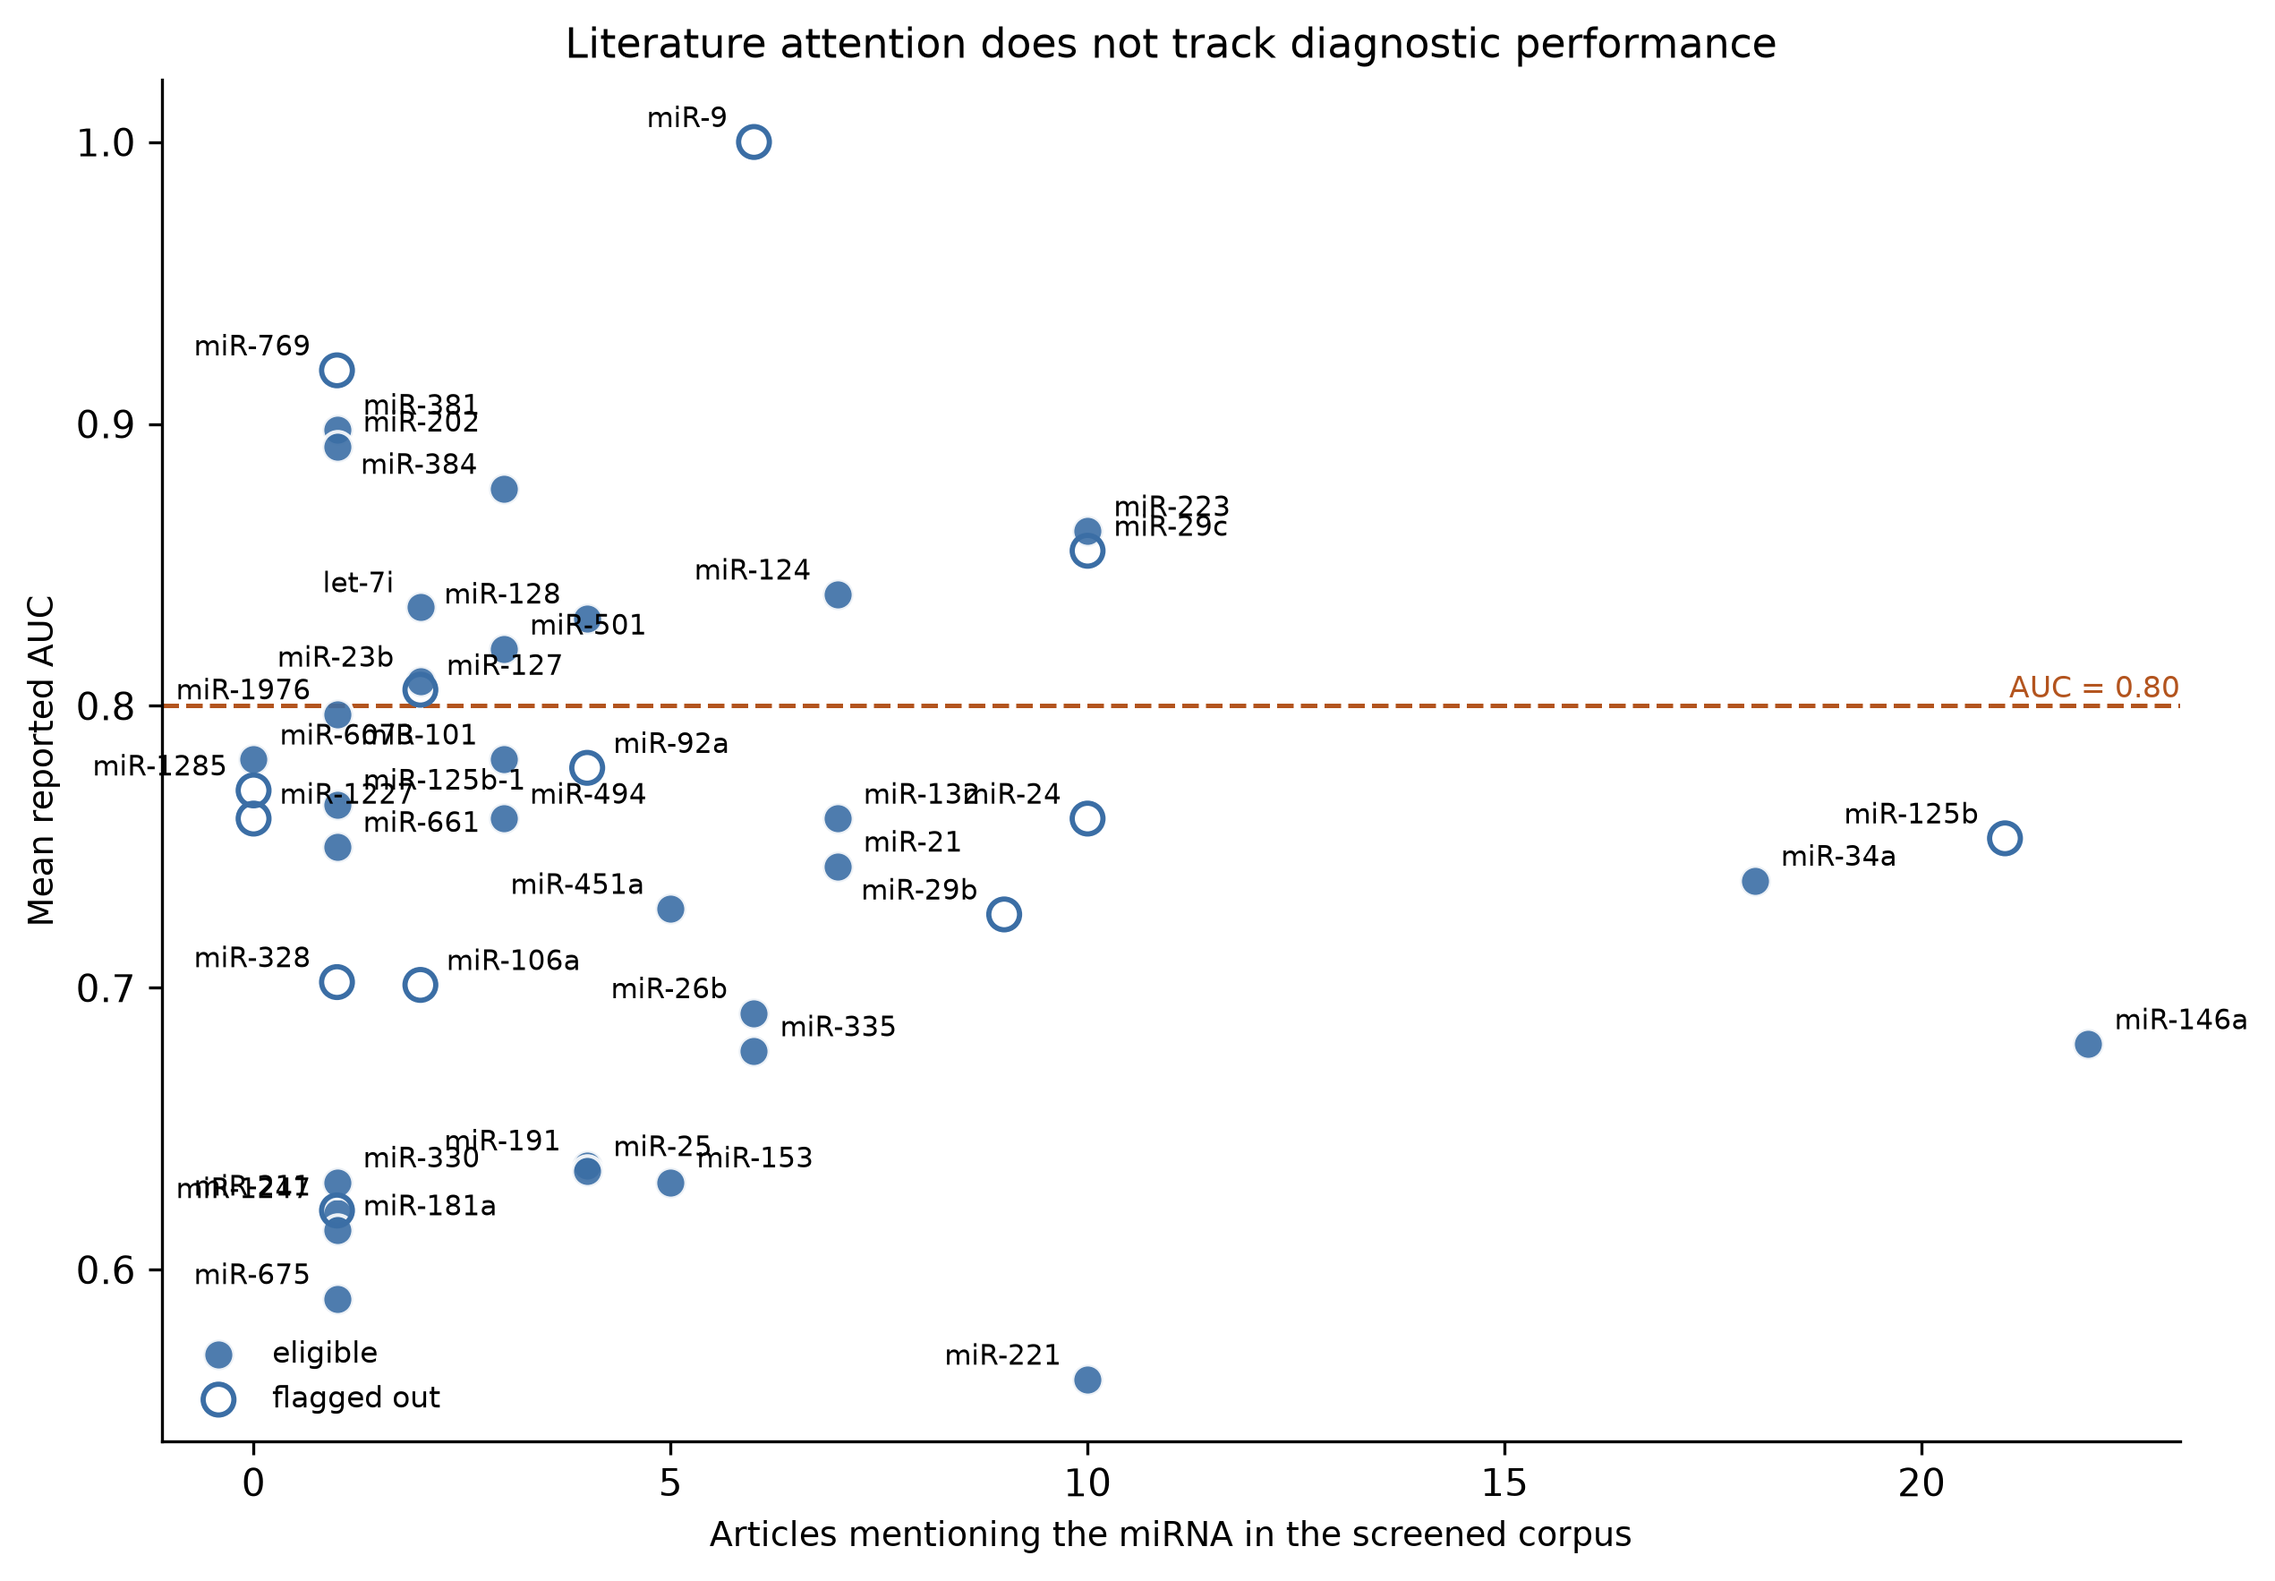
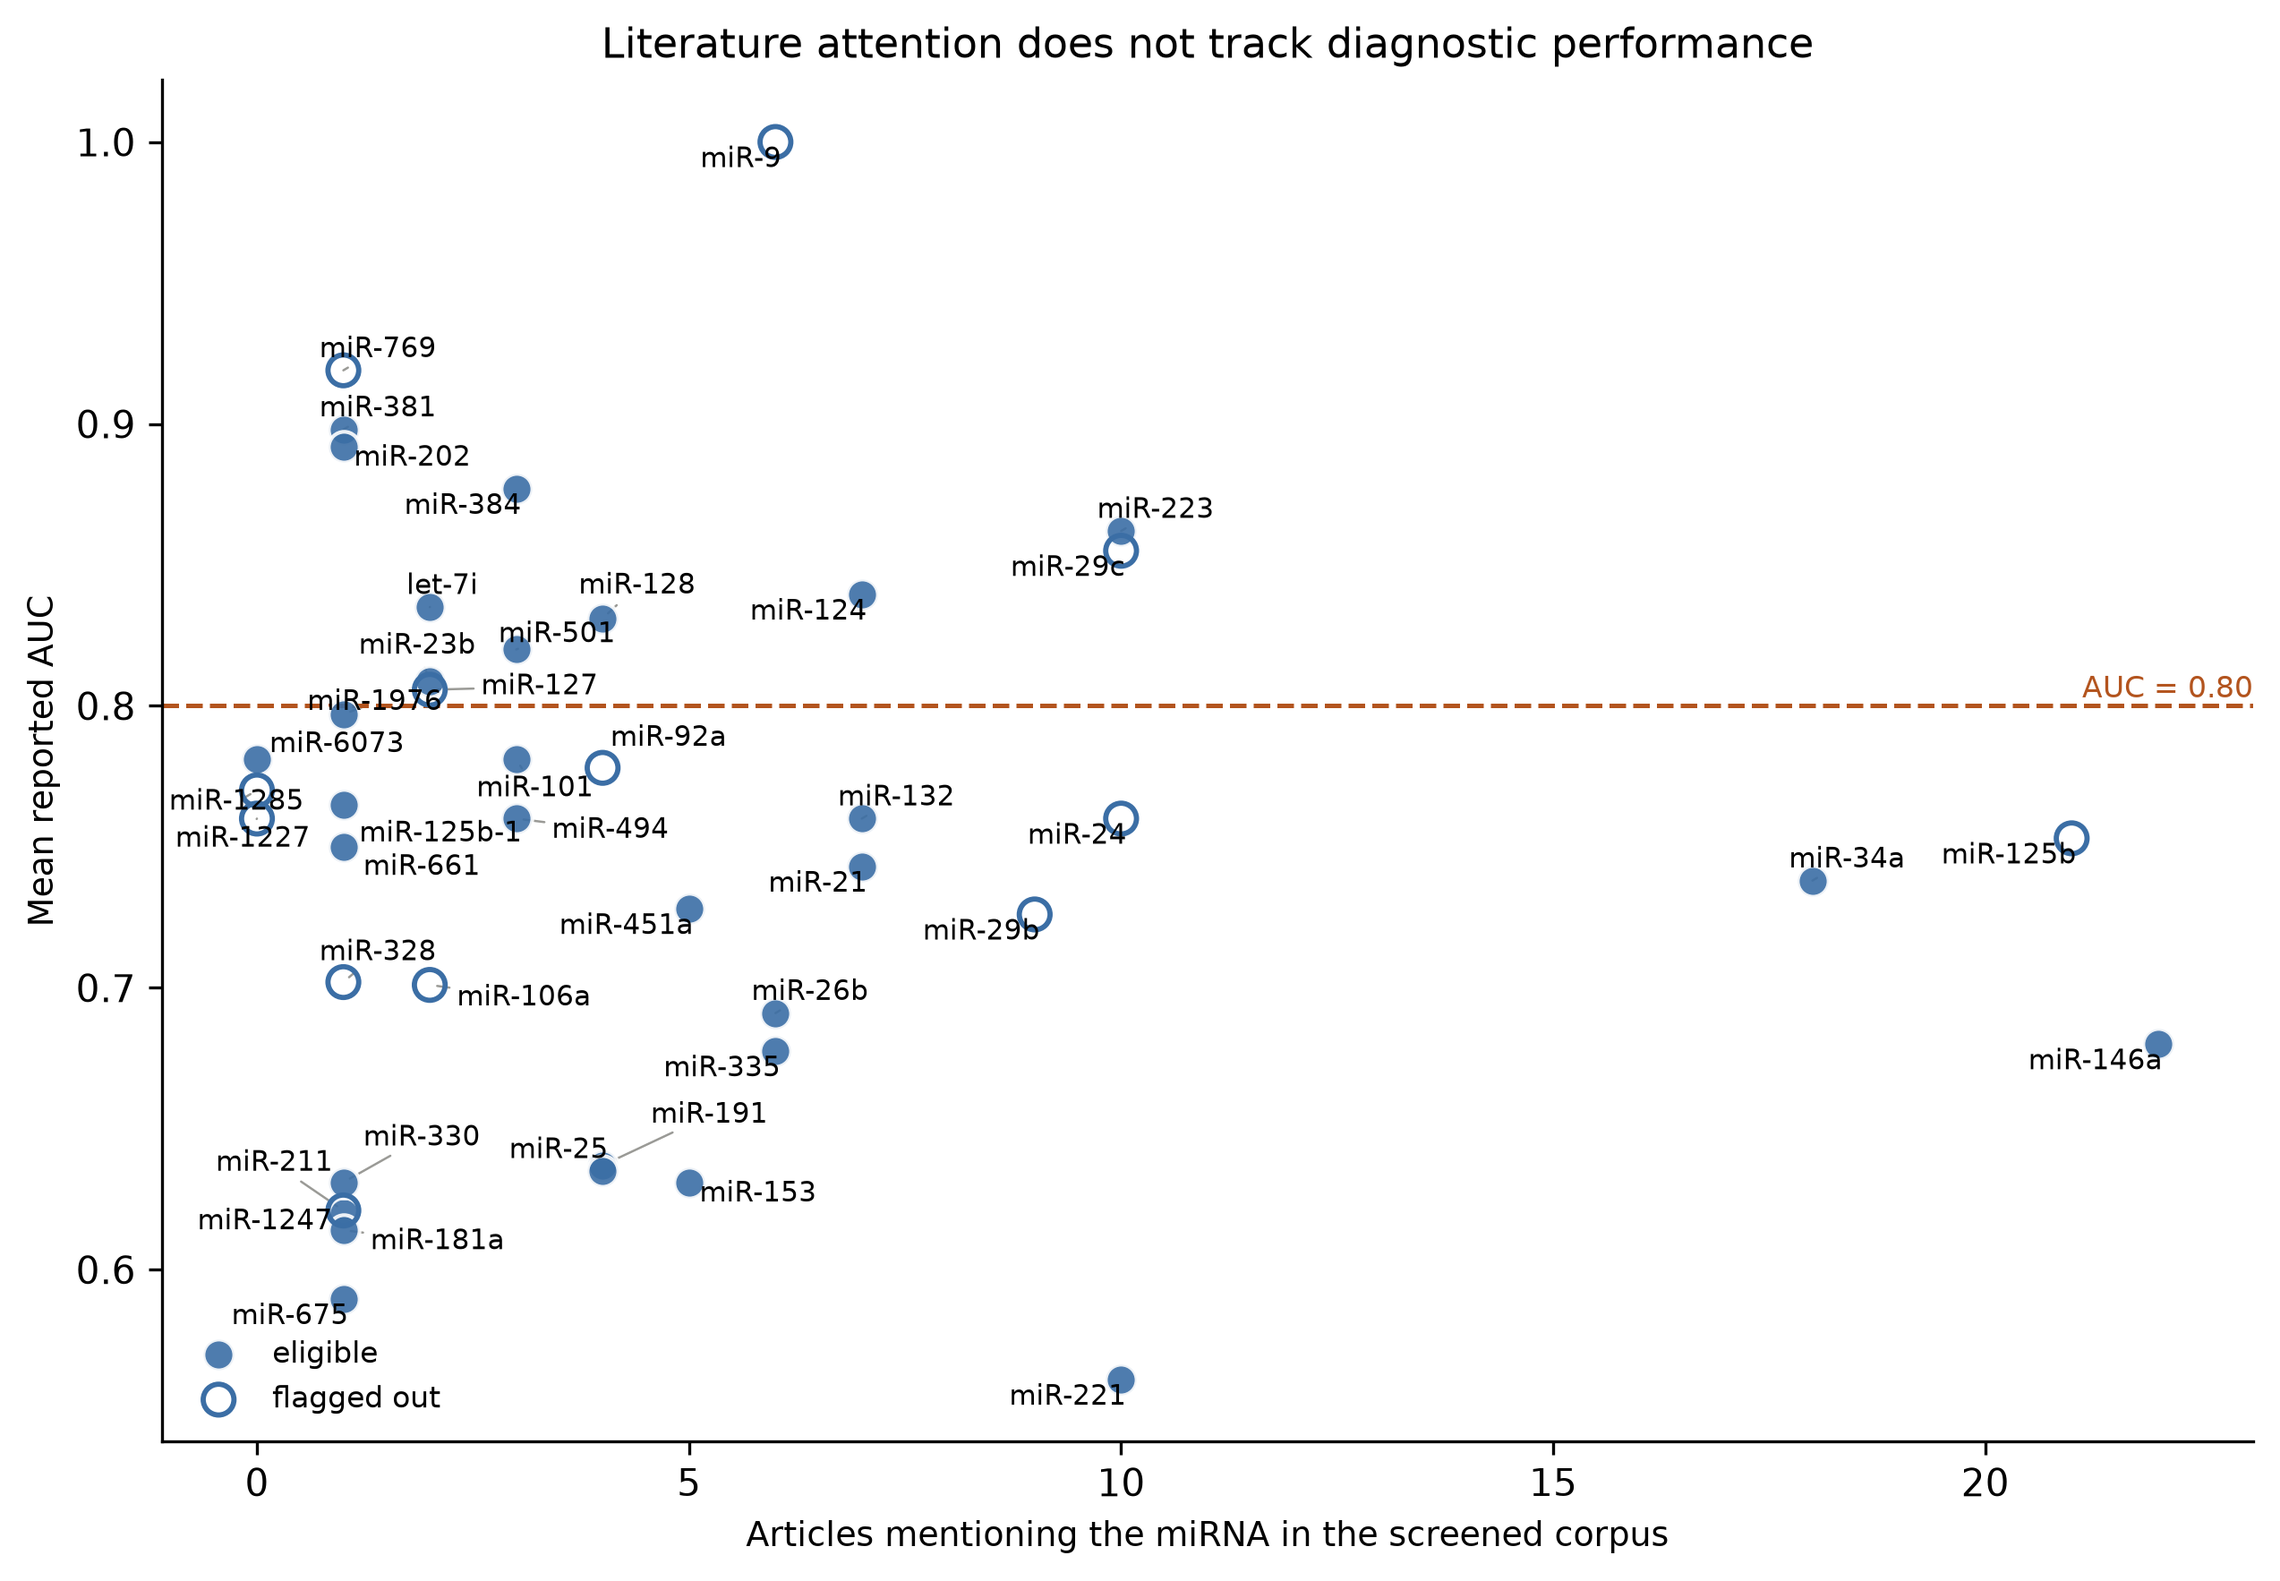
Fix overlapping labels in the attention-vs-accuracy scatter
The manuscript review found results/figures/citation_frequency_vs_auc
illegible in its densest region: a fixed left/right alternation rule
left several miRNA labels stacked directly on top of each other where
many markers share zero or one mention. Replaced it with adjust_text
(Hunter, 2007-style label repulsion), which spreads every label clear
of the points and of each other and draws a thin leader line back to
the point when a label had to move far. The underlying data and
correlation coefficients (rho = -0.043 and -0.113) are unchanged;
scripts/08_verify_consistency.py still passes at 1656 checks. Adds
adjustText as a dependency, recorded in requirements.txt.

diff --git a/scripts/06_citation_vs_performance.py b/scripts/06_citation_vs_performance.py
@@ -34,6 +34,7 @@ from scipy import stats
 import matplotlib
 matplotlib.use("Agg")
 import matplotlib.pyplot as plt
+from adjustText import adjust_text
 
 COUNTS = "data/raw/systematic_review_2026/mirna_mention_counts.csv"
 EXTRACTION = "data/extracted/diagnostic_accuracy_extraction.csv"
@@ -195,13 +196,23 @@ def main():
         ax.scatter(x[~is_elig], y[~is_elig], s=68, facecolor="none",
                    edgecolor="#3B6EA5", linewidth=1.4, zorder=3,
                    label=t(lang, "flagged out", "sinalizada fora"))
-        for i, (_, r_) in enumerate(merged.iterrows()):
-            # EN/PT: alternate label side to reduce overlap in the dense region
-            dx, ha = (7, "left") if i % 2 == 0 else (-7, "right")
-            ax.annotate(r_["family"],
-                        (r_["n_articles_mentioning"], r_["mean_auc"]),
-                        textcoords="offset points", xytext=(dx, 4),
-                        ha=ha, fontsize=7.4)
+        # EN | Label positions are relaxed by adjust_text (Hunter, 2007 style repulsion),
+        #      not left to a fixed left/right alternation: the corpus has a dense cluster
+        #      of miRNAs mentioned zero or once, and a fixed rule left several of those
+        #      labels stacked on top of each other. adjust_text moves labels away from
+        #      each other and from the points themselves, and draws a thin leader line
+        #      wherever a label had to move far from its point.
+        # PT | As posicoes dos rotulos sao relaxadas pelo adjust_text (repulsao ao estilo
+        #      Hunter, 2007), nao por uma alternancia fixa esquerda/direita: o corpus tem
+        #      um aglomerado denso de miRNAs mencionados zero ou uma vez, e uma regra fixa
+        #      deixava varios desses rotulos empilhados um sobre o outro. O adjust_text
+        #      afasta os rotulos entre si e dos proprios pontos, e desenha uma linha fina
+        #      sempre que um rotulo precisou se afastar muito do seu ponto.
+        texts = [ax.text(r_["n_articles_mentioning"], r_["mean_auc"], r_["family"],
+                          fontsize=7.4, ha="center", va="center")
+                 for _, r_ in merged.iterrows()]
+        adjust_text(texts, x=x, y=y, ax=ax,
+                    arrowprops=dict(arrowstyle="-", color="#9a9a96", lw=0.6))
         ax.axhline(0.80, color="#B3541E", ls="--", lw=1.2, zorder=2)
         ax.text(ax.get_xlim()[1], 0.803, "AUC = 0.80", ha="right", fontsize=8, color="#B3541E")
         ax.set_xlabel(t(lang, "Articles mentioning the miRNA in the screened corpus",
